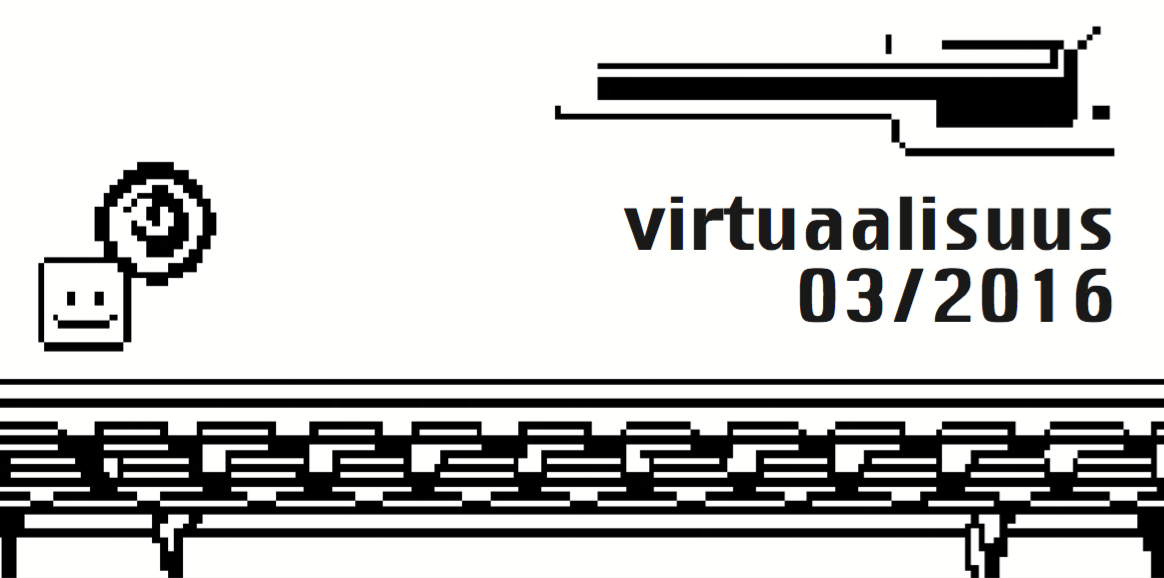
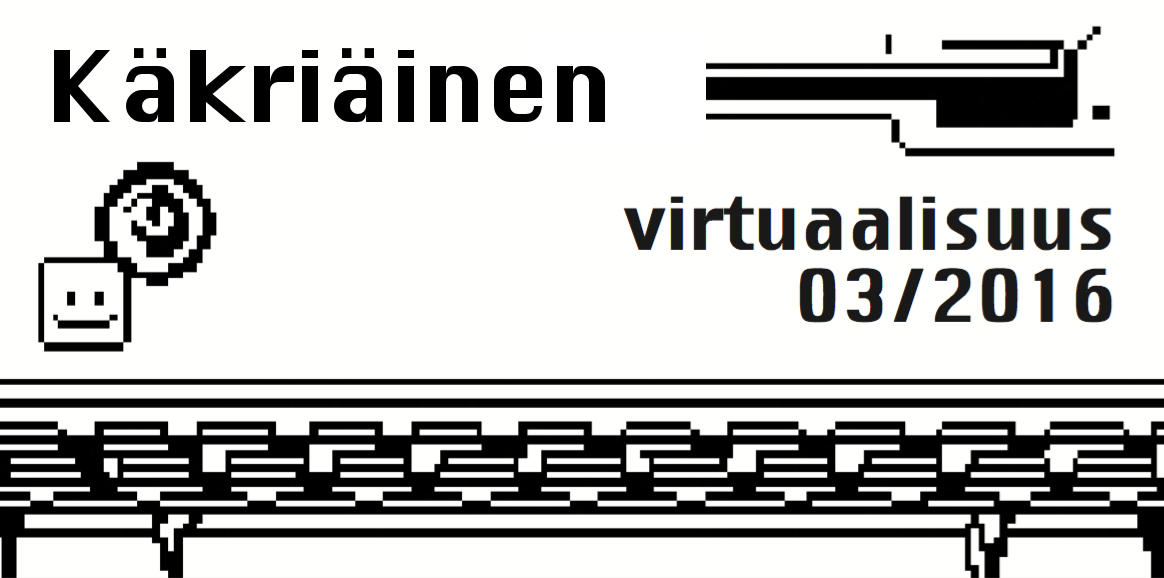
Changed meta image

Changed region(s): [[0.0309, 0.0934, 0.6186, 0.218]]

diff --git a/index.html b/index.html
@@ -9,10 +9,11 @@
     <!--<meta name="viewport" content="width=device-width, initial-scale=0.41, maximum-scale=1" />-->
 
     <!-- FB META -->
-    <meta property="og:url" content="http://käkriäinen.fi" />
+    <meta property="og:url" content="http://xn--kkriinen-0zad.fi/" />
     <meta property="og:title" content="Käkriäinen 3/2016 Virtuaalisuus" />
     <meta property="og:description" content="" />
     <meta property="og:image" content="http://xn--kkriinen-0zad.fi/virtuaalisuus.png" />
+    <meta property="og:locale" content="fi_FI" />
 
     <link href="apple-touch-icon.png" rel="apple-touch-icon">
     <link href="css/normalize.css" rel="stylesheet">
